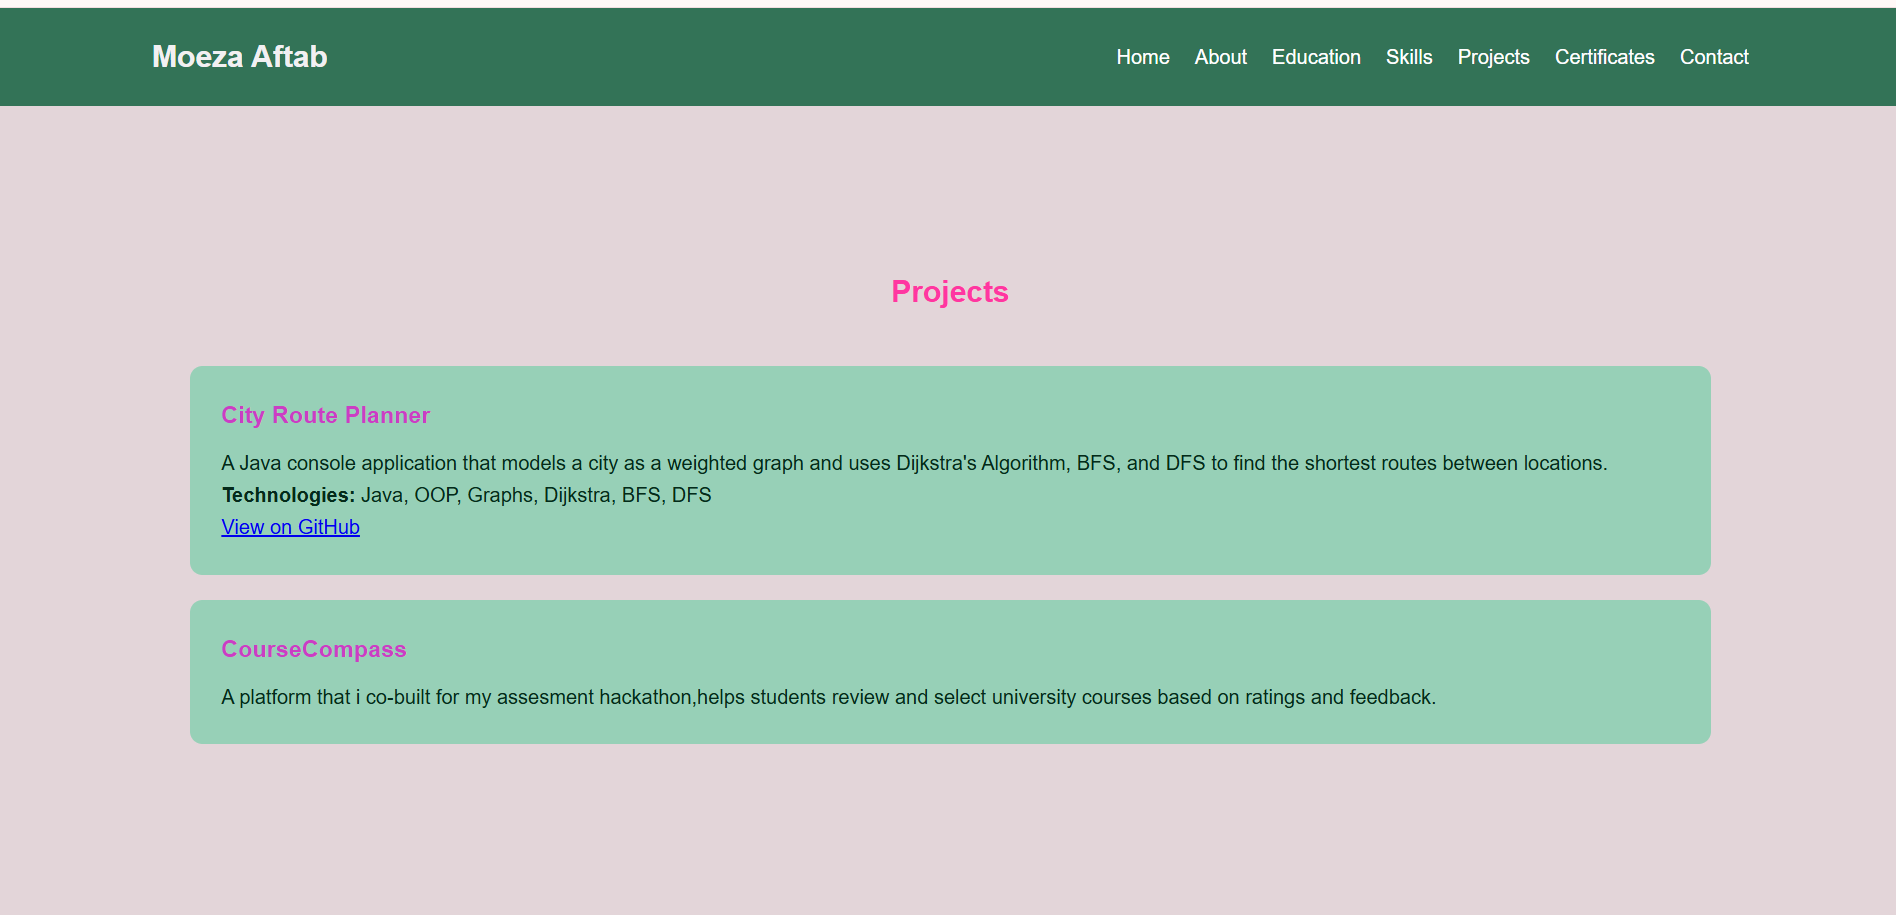
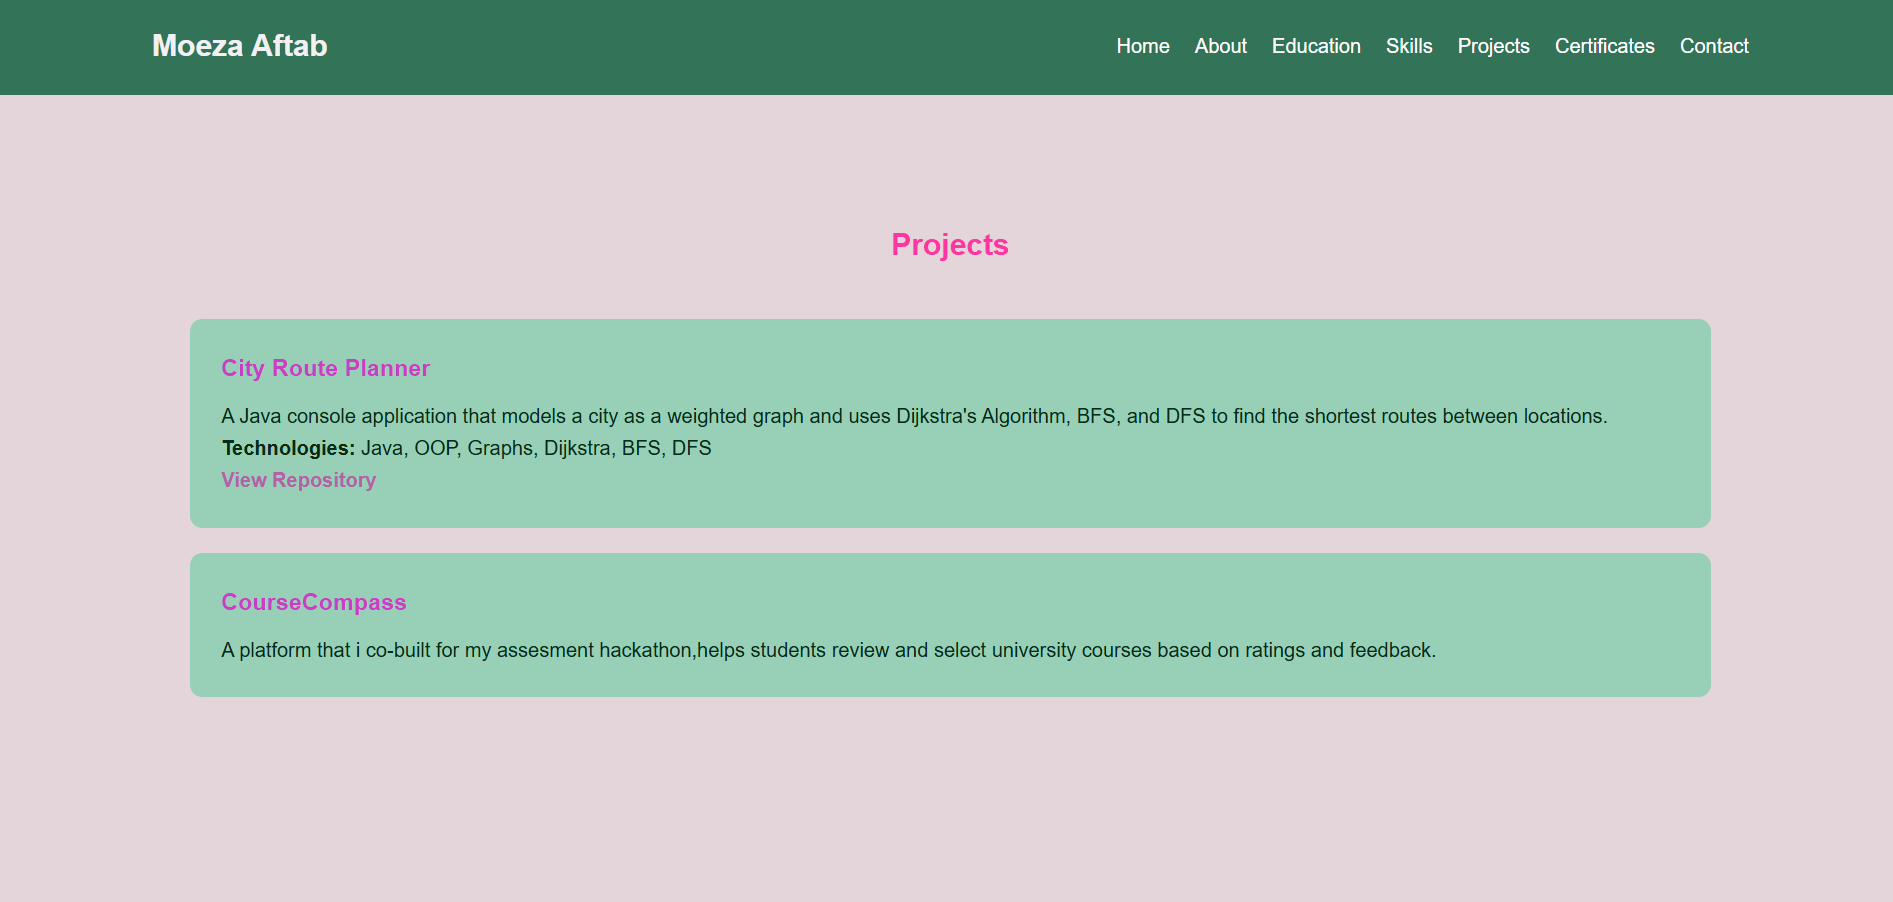
Update portfolio screenshots and CSS

Changed region(s): [[0.0935, 0.3104, 0.9039, 0.8381], [0.0, 0.0, 1.0, 0.1242], [0.4675, 0.2483, 0.5298, 0.2794]]

diff --git a/index.html b/index.html
@@ -118,7 +118,9 @@
             <strong>Technologies:</strong>
              Java, OOP, Graphs, Dijkstra, BFS, DFS
             <p>
-           <a href="https://github.com/MoezaAftab/CityRoutePlanner"> View on GitHub</a>
+           <a href="https://github.com/MoezaAftab/CityRoutePlanner" class="project-link">
+    View Repository
+</a>
         </p>
 
 

diff --git a/style.css b/style.css
@@ -162,6 +162,17 @@ section h2{
     list-style:none;
 }
 
+.project-link {
+    color: #b361a9;
+    text-decoration: none;
+    font-weight: bold;
+}
+
+.project-link:hover {
+    color: #011d1b;
+    text-decoration: underline;
+}
+
 /* CONTACT */
 
 #contact{
